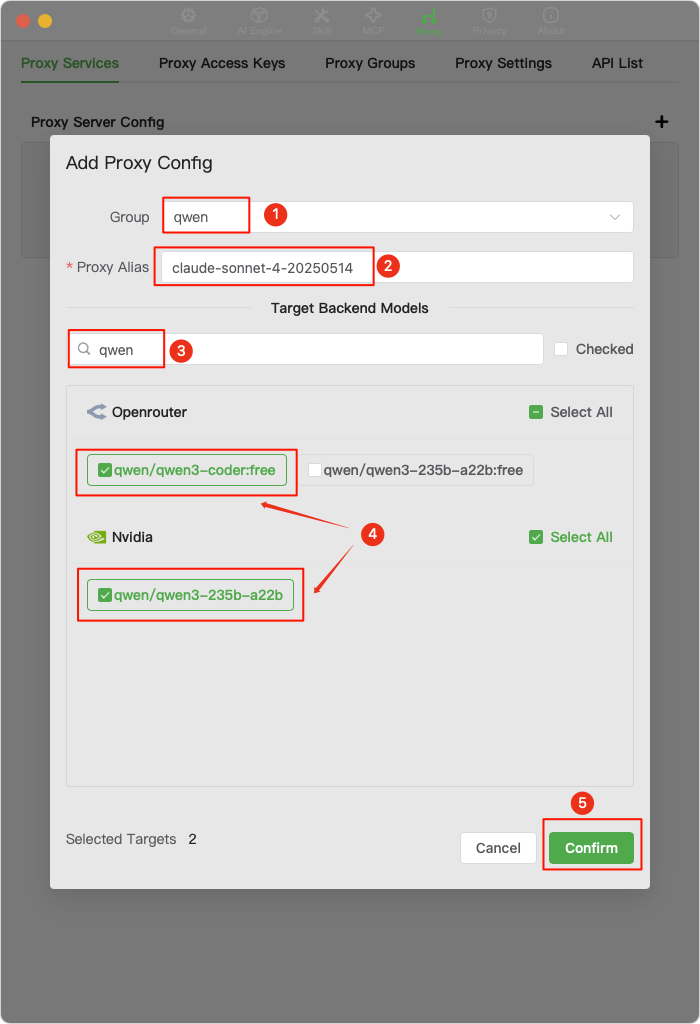
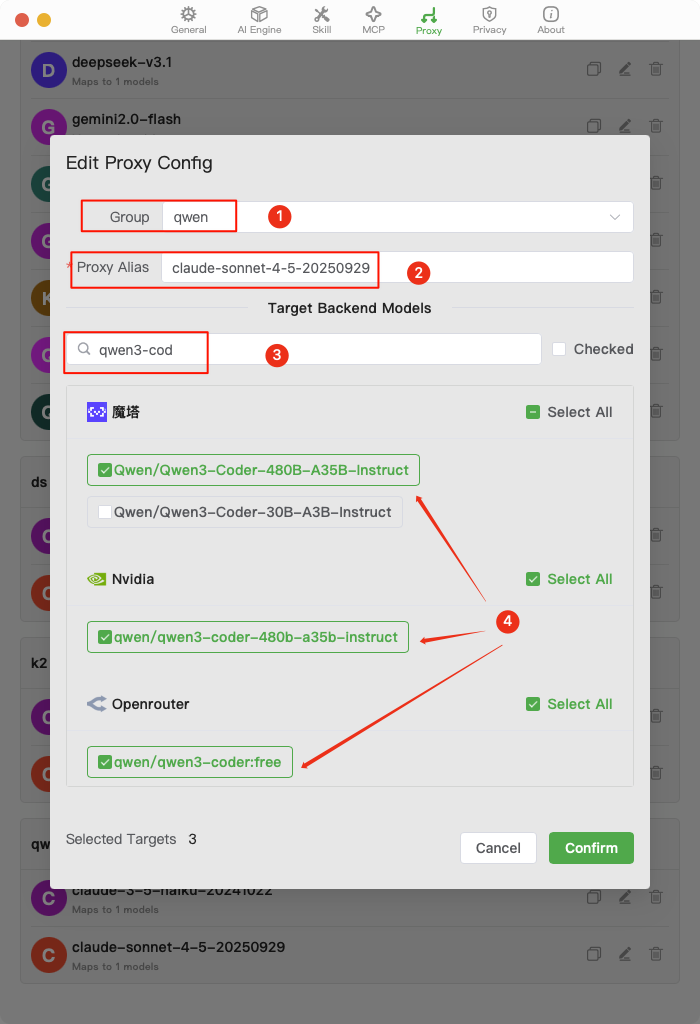
更新文档

diff --git a/docs/ccproxy/claude-code.md b/docs/ccproxy/claude-code.md
@@ -142,7 +142,7 @@ go_claude() {
   # echo "   ANTHROPIC_AUTH_TOKEN = $ANTHROPIC_AUTH_TOKEN"
 
   echo "👉 Entering Claude ..."
-  claude
+  claude --model claude-sonnet-4-5-20250929
 }
 ```
 
@@ -261,5 +261,42 @@ go_claude() {
   # echo "   ANTHROPIC_AUTH_TOKEN = $ANTHROPIC_AUTH_TOKEN"
 
   echo "👉 Entering Claude ..."
-  claude
+  claude --model claude-sonnet-4-5-20250929
 }
+```
+
+#### 🔀 Proxy Group Switching
+
+Taking `zsh` as an example, copy the above script to your `~/.zshrc`, then execute `source ~/.zshrc` to make it effective.
+
+Next we can start using `Claude Code`:
+
+1. Execute `source ~/.zshrc`
+2. Execute `go_claude qwen`
+
+Below is my output example:
+
+```zsh
+> go_claude qwen
+Testing endpoint: http://127.0.0.1:11434/qwen/compat_mode/v1/models
+✅ Test successful. Found 3 models.
+✅ Successfully switched to environment: qwen (using 'dev' config)
+👉 ANTHROPIC_BASE_URL = http://127.0.0.1:11434/qwen/compat_mode
+👉 Entering Claude ...
+╭───────────────────────────────────────────────────╮
+│ ✻ Welcome to Claude Code!                         │
+│                                                   │
+│   /help for help, /status for your current setup  │
+│                                                   │
+│   cwd: /opt/dev/chatspeed                         │
+│                                                   │
+│   ─────────────────────────────────────────────── │
+│                                                   │
+│   Overrides (via env):                            │
+│                                                   │
+│   • API Base URL:                                 │
+│   http://127.0.0.1:11434/qwen/compat_mode         │
+╰───────────────────────────────────────────────────╯
+```
+
+Now you can enjoy using the free `Claude Code`!

diff --git a/docs/ccproxy/configuration.md b/docs/ccproxy/configuration.md
@@ -56,10 +56,12 @@ After managing groups, we can now add different proxies to the corresponding gro
 
 3.  Fill in the fields as indicated in the image and save.
     - **Group**: In this example, we are configuring qwen3-code as a backup model for `Claude Code`, so select qwen.
-    - **Proxy Alias**: `Claude Code` currently uses `claude-sonnet-4-20250514` as its main programming model, so enter `claude-sonnet-4-20250514` here.
+    - **Proxy Alias**: `Claude Code` currently uses `claude-sonnet-4-5-20250929` as its main programming model, so enter `claude-sonnet-4-5-20250929` here.
     - **Model**: Search for qwen, then select all qwen3-coder or related models.
 
-      > Note: The `Nvidia` `qwen3-235b-a22b` in the image is not actually a code model and is used here for demonstration purposes only.
+      > Note: You can select multiple different models from the same (or different) provider as shown in the example in the image. CCProxy will balance the load across provider to improve model call frequency and reduce the risk of `429` errors.
+
+      > Note: The `claude-sonnet-4-5-20250929` in the example is the current default model for `Claude Code`. You can also use other Claude series models in the proxy model alias configuration, such as `claude-sonnet-4-20250514`. Simply specify it via the `--model` parameter when starting Claude.
 
     ![Add Proxy](/images/en/proxy-setting-2.png)
 

diff --git a/docs/zh/ccproxy/claude-code.md b/docs/zh/ccproxy/claude-code.md
@@ -142,7 +142,7 @@ go_claude() {
   # echo "   ANTHROPIC_AUTH_TOKEN = $ANTHROPIC_AUTH_TOKEN"
 
   echo "👉 正在进入 Claude ..."
-  claude
+  claude --model claude-sonnet-4-5-20250929
 }
 ```
 
@@ -261,7 +261,7 @@ go_claude() {
   # echo "   ANTHROPIC_AUTH_TOKEN = $ANTHROPIC_AUTH_TOKEN"
 
   echo "👉 正在进入 Claude ..."
-  claude
+  claude --model claude-sonnet-4-5-20250929
 }
 ```
 
@@ -288,7 +288,7 @@ Testing endpoint: http://127.0.0.1:11434/qwen/compat_mode/v1/models
 │                                                   │
 │   /help for help, /status for your current setup  │
 │                                                   │
-│   cwd: /Volumes/dev/personal/dev/ai/chatspeed     │
+│   cwd: /opt/dev/chatspeed                         │
 │                                                   │
 │   ─────────────────────────────────────────────── │
 │                                                   │
